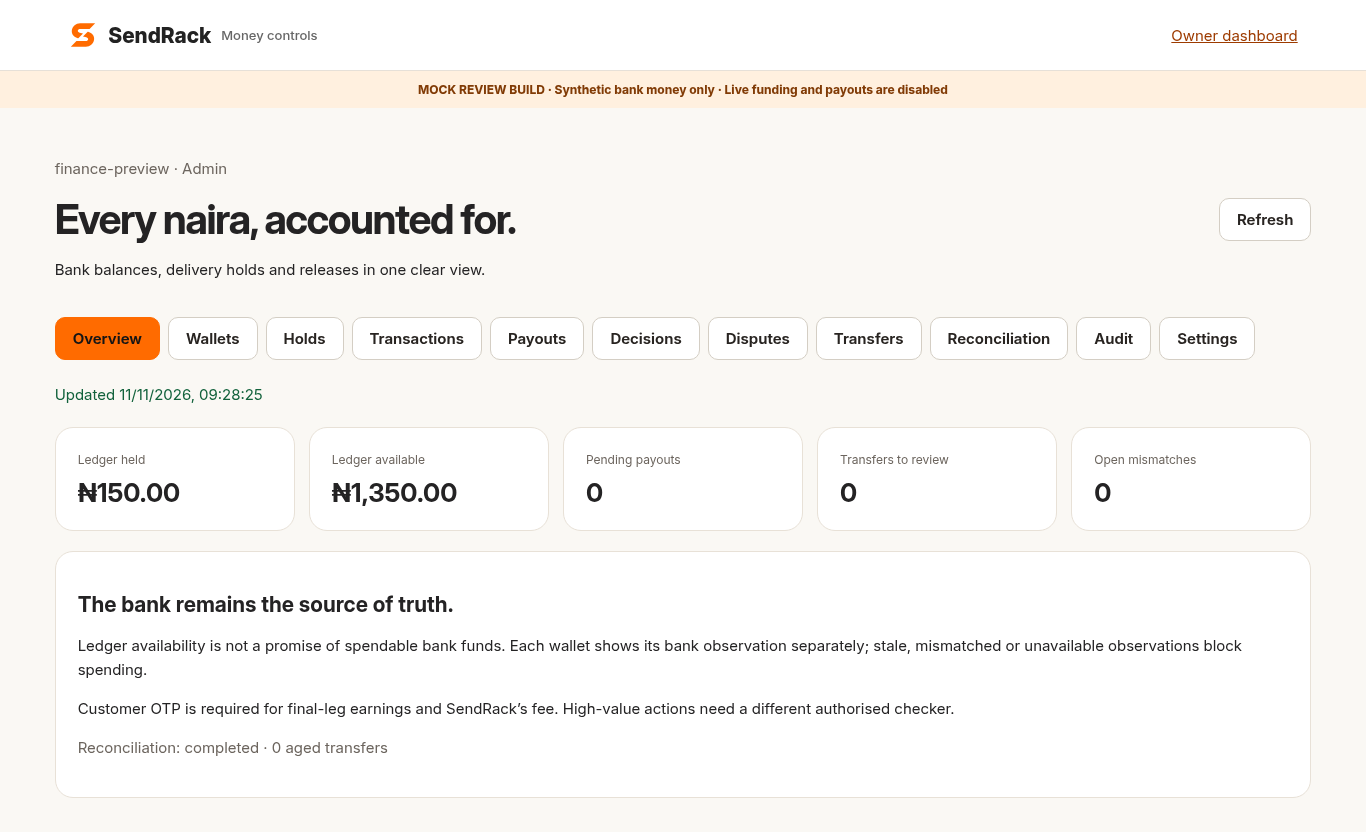
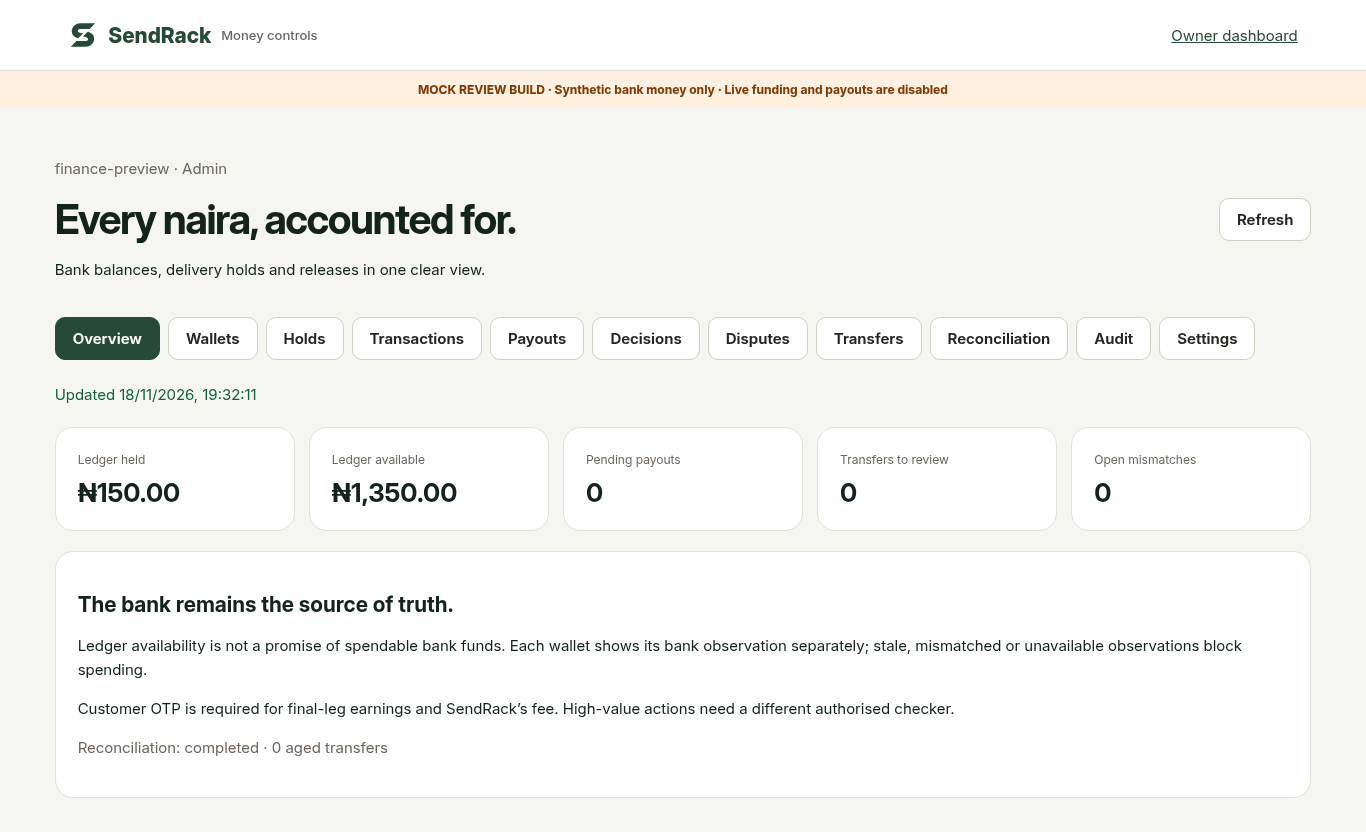
Align admin console and money controls with green and cream brand

diff --git a/admin/style.css b/admin/style.css
@@ -21,3 +21,15 @@ input,select,textarea{background:#262626;color:#ededed;border-color:#494949}.pan
 .route-state-group{margin-bottom:18px}.route-state-group table{table-layout:fixed;min-width:940px}.route-state-group th:first-child{width:30%}.route-state-group th:last-child{width:230px}.route-state-group td:first-child{overflow-wrap:anywhere}
 
 .feature-intro{max-width:760px;margin:0 0 24px}.feature-intro h2{font-size:20px;margin-bottom:10px}.feature-intro p{line-height:1.7}.mobile-feature-grid{display:grid;grid-template-columns:repeat(2,minmax(0,1fr));gap:22px;max-width:1160px}.mobile-feature-card{padding:28px;display:flex;flex-direction:column;align-items:stretch;gap:0;margin:0}.feature-card-top{display:flex;align-items:center;justify-content:space-between;gap:16px;margin-bottom:26px}.feature-symbol{width:48px;height:48px;display:grid;place-items:center;background:#e7443220;color:#ff9986;border:1px solid #e7443238;border-radius:15px;font-size:27px}.mobile-feature-card h2{font-size:23px;margin:0 0 12px}.feature-description{font-size:15px;line-height:1.7;max-width:440px;margin:0 0 28px}.mobile-feature-card h3{font-size:12px;letter-spacing:.04em;margin:0 0 10px}.mobile-feature-card>p.muted{line-height:1.8;font-size:13px;margin:0 0 28px}.feature-toggle{display:flex;align-items:center;gap:12px;position:relative;cursor:pointer;margin:0}.feature-state{color:var(--muted);font-size:12px;font-weight:650;min-width:22px}.feature-state.enabled{color:#a9d9ac}.feature-toggle input{position:absolute;right:0;top:0;width:48px;height:28px;opacity:0;margin:0;cursor:pointer;z-index:1}.feature-toggle-track{width:48px;height:28px;border-radius:20px;background:#454743;border:1px solid #72756b;transition:background .2s;display:block;position:relative}.feature-toggle-track:after{content:'';position:absolute;top:3px;left:3px;width:20px;height:20px;border-radius:50%;background:#f2f1eb;transition:transform .2s}.feature-toggle input:checked+.feature-toggle-track{background:#527a4e;border-color:#88b482}.feature-toggle input:checked+.feature-toggle-track:after{transform:translateX(20px)}.feature-toggle input:focus-visible+.feature-toggle-track{outline:2px solid #ff9b7f;outline-offset:4px}.feature-toggle:has(input:disabled){opacity:.55;cursor:wait}.feature-placement{display:flex;align-items:center;gap:12px;margin-top:auto;padding-top:20px;border-top:1px solid var(--line)}.feature-mini-icon{display:grid;place-items:center;width:38px;height:38px;background:#ffffff0b;border:1px solid var(--line);border-radius:50%;font-size:19px;color:#ffa28c}.feature-placement strong,.feature-placement small{display:block;font-size:12px}.feature-placement small{margin-top:5px;color:var(--muted)}.feature-save-status{max-width:900px;color:#b9dfba;line-height:1.7;margin-top:20px}.feature-continuity{margin-top:14px;font-size:12px}@media(max-width:760px){.mobile-feature-grid{grid-template-columns:minmax(0,1fr);gap:16px}.mobile-feature-card{padding:22px}.feature-description{font-size:14px}}
+
+/* Shared SendRack palette: forest navigation, cream canvas, white work surfaces. */
+:root{color-scheme:light;color:#14231c;background:#f5f6f1;--orange:#254a38;--brand:#254a38;--sage:#b9d3a9;--muted:#637066;--border:#dce4d7;--line:#dce4d7}
+body{background:#f5f6f1}.sidebar{background:#254a38;color:#fff}.sidebar .brand img,.login-art .brand img,.login-symbol{filter:brightness(0) invert(1)}.sidebar>.eyebrow{color:#c8d8c1}.sidebar nav button,.sidebar .finance-link{color:#e2edda}.sidebar nav button.active{background:#b9d3a9;color:#14231c}.sidebar nav button:hover,.sidebar .finance-link:hover{background:#ffffff18}.sidebar nav button.active:hover{background:#c9dfbc}.owner-block{border-color:#ffffff30}.owner-avatar{background:#d9e7ce;color:#254a38}
+input,select,textarea{background:#fff;color:#14231c;border-color:#c5d1bf}input:focus,select:focus,textarea:focus{border-color:#254a38;box-shadow:0 0 0 3px #254a3818}.panel,.kpi,.modal,.stat{background:#fff;color:#14231c;border-color:var(--border)}button.secondary,.pagination button{background:#fff;color:#254a38;border-color:#c5d1bf}button.primary{background:#254a38;color:#fff}button:focus-visible,a:focus-visible{outline:2px solid #527a4e;outline-offset:3px}
+.kpi strong{color:#14231c}.kpi.highlight,.kpi.orange{background:#254a38;color:#fff;border-color:#254a38}.kpi.highlight strong,.kpi.orange strong{color:#fff}.kpi.highlight p,.kpi.highlight small,.kpi.orange p,.kpi.orange small{color:#e2edda}.panel-head a,.link,.table-panel .link{color:#254a38}
+th,thead th{background:#edf2e7;color:#3a5141}td,th,.status-row,.data-row{border-color:#e1e6dd}.table-panel td,.table-panel td strong,.table-panel td button,.table-panel td a,td{color:#14231c}.table-panel td small,td small{color:#637066}.table-panel th{color:#3a5141}tr:hover td{background:#f5f8f1}
+.pill{background:#edf2e7;color:#254a38}.pill.green{background:#e4f3e6;color:#22603d}.pill.gray{background:#eef0eb;color:#637066}.pill.red{background:#fbe7e2;color:#a43220}.note{background:#fff4e2;color:#785124;border-color:#ead7b8}.empty{color:#637066}
+.route-footer,.login-card,.login-form{background:#fff;color:#14231c}.route-type-options label:has(input:checked){background:#edf2e7;border-color:#254a38}.route-type-options input{accent-color:#254a38}.login-page{background:#f5f6f1}.login-art{background:#254a38;color:#fff}.login-art:after{border-color:#b9d3a9}.login-art p{color:#d9e7ce}.login-form .field label,.form-grid label{color:#3a5141}.modal .close{background:#edf2e7;color:#254a38}
+.feature-symbol{background:#edf2e7;color:#254a38;border-color:#d3dfc9}.feature-state{color:#637066}.feature-state.enabled{color:#254a38}.feature-toggle-track{background:#c5cec0;border-color:#98aa90}.feature-toggle input:checked+.feature-toggle-track{background:#254a38;border-color:#254a38}.feature-toggle input:focus-visible+.feature-toggle-track{outline-color:#254a38}.feature-mini-icon{background:#edf2e7;color:#254a38;border-color:#d3dfc9}.feature-save-status{color:#254a38}
+.route-actions .route-delete{color:#a43220;border-color:#dfb7ad}
+.table-panel td button.primary,td button.primary{color:#fff}

diff --git a/admin/wallet.css b/admin/wallet.css
@@ -1,3 +1,6 @@
 [hidden]{display:none!important}@font-face{font-family:SendRack;src:url('/assets/Inter.ttf') format('truetype');font-display:swap}*{box-sizing:border-box}body{margin:0;background:#faf8f4;color:#242324;font:15px SendRack,system-ui,sans-serif}header{display:flex;align-items:center;justify-content:space-between;gap:18px;padding:20px clamp(18px,5vw,80px);background:white;border-bottom:1px solid #e6e0d8}.brand{display:flex;align-items:center;gap:10px;color:#222;font-weight:800;text-decoration:none;font-size:21px}.brand img{width:30px;height:30px}.brand span{font-size:13px;font-weight:500;color:#666}a{color:#9d3b00}main{max-width:1480px;margin:auto;padding:34px clamp(16px,4vw,64px)}h1{font-size:clamp(27px,3vw,42px);letter-spacing:-1.5px;line-height:1.15;margin:8px 0 14px}h2{font-size:21px}p{line-height:1.6}.banner{padding:11px 20px;background:#fff0df;color:#813b06;text-align:center;font-size:12px;font-weight:750}.page-heading{display:flex;align-items:center;justify-content:space-between;gap:20px}button,input,select,textarea{font:inherit}button{cursor:pointer;border:1px solid #d4cec4;border-radius:10px;background:white;color:#282421;padding:11px 17px;font-weight:650}button:hover{border-color:#ff6b00}button:disabled{opacity:.5;cursor:wait}.primary,nav .active{background:#ff6b00;color:#151515;border-color:#ff6b00}nav{display:flex;gap:8px;overflow-x:auto;padding:20px 0 8px}nav button{white-space:nowrap}.metrics{display:grid;grid-template-columns:repeat(auto-fit,minmax(175px,1fr));gap:14px;margin:20px 0}.metric,.panel{background:white;border:1px solid #e8e1d7;border-radius:18px;padding:22px;min-width:0}.metric strong{display:block;font-size:26px;margin-top:8px}.muted,small{color:#6c655e}small{display:block;font-size:12px;line-height:1.6}.filters,.paging,.actions{display:flex;gap:12px;align-items:end;flex-wrap:wrap}.filters{margin:22px 0}.filters label{max-width:320px;flex:1}.paging{justify-content:space-between;margin:20px 0}label{display:block;font-size:13px;font-weight:650;margin:12px 0}input,select,textarea{display:block;width:100%;padding:12px;border:1px solid #ccc4b7;border-radius:10px;background:white;color:#222;margin:7px 0;min-width:0}textarea{min-height:95px;resize:vertical}input:focus,textarea:focus,button:focus-visible,select:focus{outline:3px solid #ffbd88;outline-offset:2px}.table-wrap{overflow:auto;max-width:100%;border-radius:15px;border:1px solid #e6e0d8;background:white}table{border-collapse:collapse;width:100%;font-size:13px}th,td{text-align:left;padding:15px;border-bottom:1px solid #eee8df;vertical-align:top}th{background:#f0ece5;font-size:11px;text-transform:uppercase;letter-spacing:.05em}td.ref{max-width:220px;overflow-wrap:anywhere}td button{font-size:12px;padding:7px 10px;margin:3px}.status{font-weight:700;color:#7d3906}.error{color:#a32121}.ok{color:#12623c}.tier{display:grid;grid-template-columns:1fr repeat(3,1.3fr) auto;gap:10px;align-items:end}.tier label{font-size:11px}.tier button{margin-bottom:19px}.grid{display:grid;grid-template-columns:repeat(auto-fit,minmax(240px,1fr));gap:18px}pre{white-space:pre-wrap;overflow-wrap:anywhere;font-size:12px;max-height:450px;overflow:auto}dialog{border:0;border-radius:20px;width:min(600px,calc(100% - 24px));max-height:85dvh;padding:26px;box-shadow:0 25px 90px #0004}dialog::backdrop{background:#18171888}dialog footer{position:sticky;bottom:-26px;background:white;display:flex;justify-content:flex-end;gap:12px;padding:20px 0 5px}#session{max-width:480px;margin:30px auto}.login{background:white;border-radius:20px;padding:30px;border:1px solid #e5ddcf}#connection:empty,#notice:empty{display:none}.wallet-user{max-width:900px}.wallet-card{background:#242324;color:white;border-radius:22px;padding:26px}.wallet-card strong{font-size:36px;display:block;margin:10px 0}.wallet-card small{color:#e6dfd4}.timeline{border-left:3px solid #ff6b00;margin:18px;padding-left:18px}.timeline p{margin:8px 0}@media(max-width:700px){header{padding:16px}.brand span{display:none}.page-heading{align-items:start}.page-heading>button{padding:10px}.metrics{grid-template-columns:repeat(2,minmax(0,1fr))}.metric{padding:16px}.metric strong{font-size:21px}.tier{grid-template-columns:1fr 1fr}.filters button{flex:1}main{padding-top:23px}.filters label{min-width:130px}header>a:last-child{font-size:12px}.grid{grid-template-columns:1fr}dialog{padding:20px}dialog footer{bottom:-20px}}
 
 .wallet-user p,.wallet-user small{overflow-wrap:anywhere}
+
+/* Same brand palette; financial actions, warnings and permissions are unchanged. */
+body{background:#f5f6f1;color:#14231c}header{border-color:#dce4d7}.brand,a{color:#254a38}button:hover{border-color:#254a38}.primary,nav .active{background:#254a38;border-color:#254a38;color:#fff}.metric,.panel{border-color:#dce4d7}input:focus,select:focus,textarea:focus{outline:2px solid #254a38;outline-offset:2px}

diff --git a/admin/wallet.html b/admin/wallet.html
@@ -1,1 +1,1 @@
-<!doctype html><html lang="en"><head><meta charset="utf-8"><meta name="viewport" content="width=device-width,initial-scale=1"><meta name="theme-color" content="#ff6b00"><title>SendRack — Money controls</title><link rel="stylesheet" href="/admin/wallet.css"><script src="/admin/wallet.js" type="module"></script></head><body><header><a class="brand" href="/admin"><img src="/assets/sendrack-mark.svg" alt="">SendRack <span>Money controls</span></a><a href="/admin">Owner dashboard</a></header><div class="banner">MOCK REVIEW BUILD · Synthetic bank money only · Live funding and payouts are disabled</div><main><section id="session"><p>Checking your finance session…</p></section><section id="console" hidden><div class="page-heading"><div><p id="identity" class="muted"></p><h1>Every naira, accounted for.</h1><p>Bank balances, delivery holds and releases in one clear view.</p></div><button id="refresh">Refresh</button></div><nav id="tabs" aria-label="Finance views"></nav><p id="connection" role="status"></p><section id="summary" class="metrics"></section><form id="filters" class="filters"><label>Search reference<input name="query" maxlength="160"></label><label>Status or transaction type<input name="status" maxlength="80" placeholder="Optional exact status"></label><button>Apply</button><button id="export" type="button">Export this page</button></form><section id="content"></section><div class="paging"><button id="previous">Previous</button><span id="page"></span><button id="next">Next</button></div></section><p id="notice" role="status" aria-live="polite"></p></main><dialog id="action-dialog"><form id="action-form"><h2 id="dialog-title">Review action</h2><div id="dialog-fields"></div><label>Reason<textarea name="reason" required minlength="5" maxlength="500"></textarea></label><p class="error" id="action-error" role="alert"></p><footer><button type="button" id="cancel">Cancel</button><button class="primary" type="submit">Confirm request</button></footer></form></dialog></body></html>
+<!doctype html><html lang="en"><head><meta charset="utf-8"><meta name="viewport" content="width=device-width,initial-scale=1"><meta name="theme-color" content="#f5f6f1"><title>SendRack — Money controls</title><link rel="stylesheet" href="/admin/wallet.css"><script src="/admin/wallet.js" type="module"></script></head><body><header><a class="brand" href="/admin"><img src="/assets/sendrack-mark.svg" alt="">SendRack <span>Money controls</span></a><a href="/admin">Owner dashboard</a></header><div class="banner">MOCK REVIEW BUILD · Synthetic bank money only · Live funding and payouts are disabled</div><main><section id="session"><p>Checking your finance session…</p></section><section id="console" hidden><div class="page-heading"><div><p id="identity" class="muted"></p><h1>Every naira, accounted for.</h1><p>Bank balances, delivery holds and releases in one clear view.</p></div><button id="refresh">Refresh</button></div><nav id="tabs" aria-label="Finance views"></nav><p id="connection" role="status"></p><section id="summary" class="metrics"></section><form id="filters" class="filters"><label>Search reference<input name="query" maxlength="160"></label><label>Status or transaction type<input name="status" maxlength="80" placeholder="Optional exact status"></label><button>Apply</button><button id="export" type="button">Export this page</button></form><section id="content"></section><div class="paging"><button id="previous">Previous</button><span id="page"></span><button id="next">Next</button></div></section><p id="notice" role="status" aria-live="polite"></p></main><dialog id="action-dialog"><form id="action-form"><h2 id="dialog-title">Review action</h2><div id="dialog-fields"></div><label>Reason<textarea name="reason" required minlength="5" maxlength="500"></textarea></label><p class="error" id="action-error" role="alert"></p><footer><button type="button" id="cancel">Cancel</button><button class="primary" type="submit">Confirm request</button></footer></form></dialog></body></html>

diff --git a/admin/live-map.css b/admin/live-map.css
@@ -312,3 +312,10 @@
 @media(max-width:999px){.tracking-board .operations-map{height:500px;min-height:500px}.tracking-board .map-detail,.tracking-board .map-empty:not([hidden])~.map-detail{margin-top:-90px}.tracking-board .map-empty{top:130px;left:16px;right:16px}.tracking-board .map-active-section{max-height:none}}
 .operations-location-filters{display:grid;grid-template-columns:repeat(2,minmax(0,220px));gap:12px;margin-bottom:14px}.operations-location-filters label{display:flex;flex-direction:column;gap:6px;font-size:11px;color:#b9bcb4}.operations-location-filters select{width:100%;padding:10px;font-size:12px}.live-operations>.map-legend{margin:0 0 16px;color:#c0c3ba}@media(max-width:700px){.operations-location-filters{grid-template-columns:1fr 1fr}}
 .operations-location-filters{max-width:452px;grid-template-columns:repeat(2,minmax(0,1fr))}.operations-location-filters label{min-width:0}
+
+/* Match the console without changing operational stage colours or map data. */
+.live-operations{background:#fff;border-color:#dce4d7}.map-filters label,.operations-location-filters label{color:#637066}.map-filters input,.map-filters select{background:#fff;color:#14231c;border-color:#c5d1bf}.map-lastknown input{accent-color:#254a38}
+.tracking-board .operations-map{background:#edf2e7}.operations-map .leaflet-tile-pane{filter:none}.tracking-board .map-active-section{background:#f5f6f1;border-color:#dce4d7}.map-active-section>summary{color:#14231c}.board-shipment{background:#fff;border-color:#dce4d7;color:#14231c}.board-shipment.selected{background:#254a38;border-color:#254a38;color:#fff}.board-shipment-top b{background:#edf2e7;color:#254a38}.board-shipment.selected .board-shipment-top b{background:#d9e7ce;color:#14231c}.board-shipment .board-shipment-bottom{color:#637066}.board-shipment.selected .board-shipment-bottom{color:#e2edda}
+.tracking-board .map-detail{background:#fffffff5;color:#14231c;border-color:#c5d1bf;box-shadow:0 10px 30px #254a381f}.board-detail-head small,.board-journey small{color:#637066}.board-status{background:#254a38;color:#fff}.tracking-board .map-detail .map-freshness,.map-history small{color:#637066}
+.tracking-map-column .viewer-map-actions button{background:#fff;color:#254a38;border-color:#c5d1bf}.tracking-map-column .viewer-location-status,.tracking-map-column .viewer-location-legend{color:#637066}.tracking-board .map-empty{background:#edf2e7;color:#14231c;border-color:#d3dfc9}.tracking-board .map-empty p{color:#637066}
+.operations-diagnostics>summary,.attention-section>summary,.operations-filter-drawer>summary{color:#3a5141}.operations-filter-drawer,.attention-section{border-color:#dce4d7}.map-connection{background:#edf2e7;color:#254a38}.map-connection.offline{background:#fff4e2;color:#785124}.map-tiles-status,.map-legend,.map-count,.live-operations>.map-legend{color:#637066}.map-attention-item{background:#f5f6f1;color:#14231c;border-color:#dce4d7}.map-attention-item span{color:#637066}.map-cluster-list{background:#edf2e7;color:#254a38}

diff --git a/admin/index.html b/admin/index.html
@@ -1,2 +1,2 @@
 <!doctype html>
-<html lang="en"><head><meta charset="utf-8"><meta name="viewport" content="width=device-width,initial-scale=1"><meta name="theme-color" content="#15151b"><title>SendRack — Owner console</title><link rel="icon" href="/assets/sendrack-mark.svg" type="image/svg+xml"><link rel="stylesheet" href="/admin/style.css"><link rel="stylesheet" href="/assets/leaflet.css"><link rel="stylesheet" href="/admin/live-map.css"><script src="/assets/leaflet.js" defer></script><script src="/admin/app.js" type="module"></script><link rel="stylesheet" href="/map-controls.css"></head><body><div id="admin-app"><div class="boot">Opening owner console…</div></div><div id="notice" role="status" aria-live="polite"></div></body></html>
+<html lang="en"><head><meta charset="utf-8"><meta name="viewport" content="width=device-width,initial-scale=1"><meta name="theme-color" content="#f5f6f1"><title>SendRack — Owner console</title><link rel="icon" href="/assets/sendrack-mark.svg" type="image/svg+xml"><link rel="stylesheet" href="/admin/style.css"><link rel="stylesheet" href="/assets/leaflet.css"><link rel="stylesheet" href="/admin/live-map.css"><script src="/assets/leaflet.js" defer></script><script src="/admin/app.js" type="module"></script><link rel="stylesheet" href="/map-controls.css"></head><body><div id="admin-app"><div class="boot">Opening owner console…</div></div><div id="notice" role="status" aria-live="polite"></div></body></html>

diff --git a/docs/admin-green/README.md b/docs/admin-green/README.md
@@ -1,0 +1,7 @@
+# Admin console brand alignment
+
+Apply the same forest green (#254A38), sage (#B9D3A9), cream (#F5F6F1), white and ink (#14231C) as the mobile app and website. Forest navigation, sage selected tabs, cream canvas, white work cards, readable green actions and consistent feature switches. Money controls and map panels follow the same palette. Operational stage colours, warnings, errors and destructive action cues remain distinct.
+
+Layout, APIs, authorisation, payments, settings and delivery behaviour are unchanged. No APK update is needed. Deploy the merged apk-test-v0.7.0 branch on Render to publish the console styles.
+
+Validation: owner browser workflow passed; map layout passed desktop/tablet/mobile; independent mobile feature switches and failure recovery passed; finance UI passed desktop/mobile containment, draft/focus/scroll/dialog preservation and transient failure handling. Screenshots reviewed. Map tiles and finance fixtures are controlled tests, not live production verification. Render deployment is not verified from this workspace.
